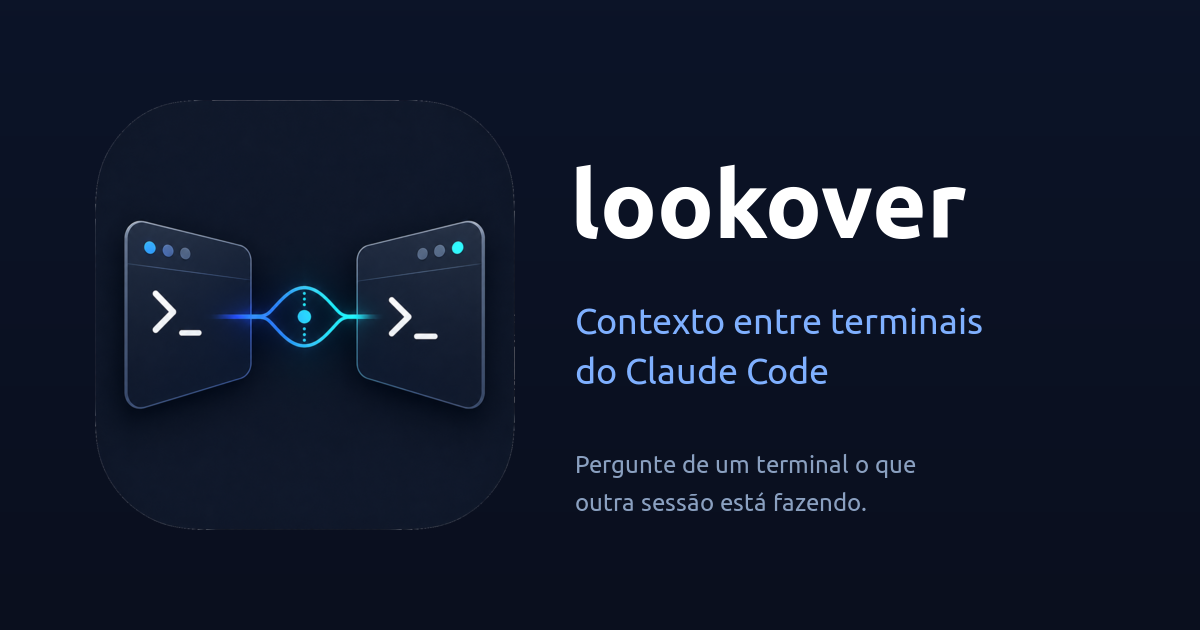
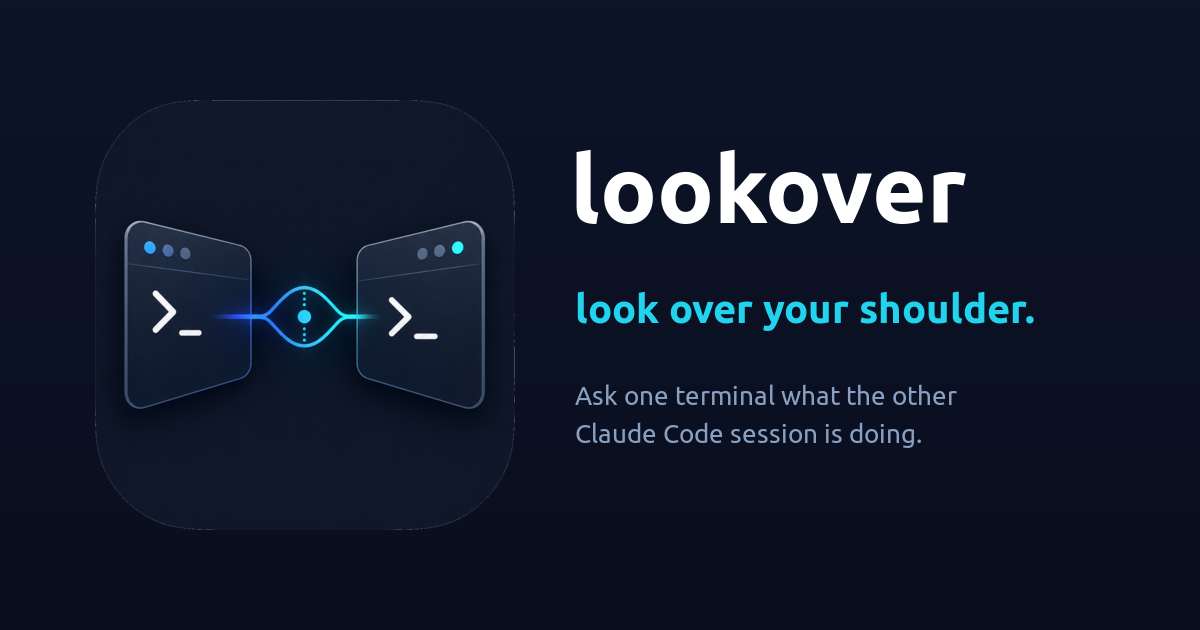
docs: README and landing in English; feature 'look over your shoulder'
🤖 Generated with Claude Code

diff --git a/site/index.html b/site/index.html
@@ -1,10 +1,10 @@
 <!doctype html>
-<html lang="pt-br">
+<html lang="en">
 <head>
 <meta charset="utf-8">
 <meta name="viewport" content="width=device-width, initial-scale=1">
-<title>lookover — contexto entre terminais do Claude Code</title>
-<meta name="description" content="Pergunte de um terminal o que outra sessão do Claude Code está fazendo. O contexto da outra sessão é injetado automaticamente — basta mencioná-la.">
+<title>lookover — context across your Claude Code terminals</title>
+<meta name="description" content="Look over your shoulder into your other Claude Code sessions. Ask one terminal what another is doing — its context is injected automatically. All local, via hooks.">
 
 <!-- favicons -->
 <link rel="icon" href="favicon.ico" sizes="any">
@@ -12,17 +12,17 @@
 <link rel="icon" type="image/png" sizes="16x16" href="favicon-16.png">
 <link rel="apple-touch-icon" href="apple-touch-icon.png">
 
-<!-- Open Graph / redes sociais -->
+<!-- Open Graph / social -->
 <meta property="og:type" content="website">
-<meta property="og:title" content="lookover — contexto entre terminais do Claude Code">
-<meta property="og:description" content="Pergunte de um terminal o que outra sessão do Claude Code está fazendo. O contexto entra automaticamente.">
+<meta property="og:title" content="lookover — context across your Claude Code terminals">
+<meta property="og:description" content="Look over your shoulder into your other Claude Code sessions. Ask one terminal what another is doing.">
 <meta property="og:url" content="https://espigah.github.io/lookover/">
 <meta property="og:image" content="https://espigah.github.io/lookover/og-image.png">
 <meta property="og:image:width" content="1200">
 <meta property="og:image:height" content="630">
 <meta name="twitter:card" content="summary_large_image">
-<meta name="twitter:title" content="lookover — contexto entre terminais do Claude Code">
-<meta name="twitter:description" content="Pergunte de um terminal o que outra sessão do Claude Code está fazendo.">
+<meta name="twitter:title" content="lookover — context across your Claude Code terminals">
+<meta name="twitter:description" content="Look over your shoulder into your other Claude Code sessions.">
 <meta name="twitter:image" content="https://espigah.github.io/lookover/og-image.png">
 
 <style>
@@ -53,7 +53,10 @@
   .hero{padding:46px 0 30px; text-align:center}
   .hero img.mark{width:128px;height:128px;border-radius:28px;
     box-shadow:0 20px 60px rgba(34,113,238,.25); margin-bottom:22px}
-  .hero h1{font-size:clamp(30px,5vw,52px); line-height:1.1; margin:.2em 0 .35em; letter-spacing:-.5px}
+  .eyebrow{display:inline-block; font-size:clamp(15px,2vw,18px); font-weight:700; letter-spacing:.3px;
+    background:var(--grad); -webkit-background-clip:text; background-clip:text; color:transparent;
+    border:1px solid var(--line); border-radius:999px; padding:7px 16px; margin-bottom:20px}
+  .hero h1{font-size:clamp(30px,5vw,52px); line-height:1.1; margin:.1em 0 .35em; letter-spacing:-.5px}
   .hero h1 .g{background:var(--grad); -webkit-background-clip:text; background-clip:text; color:transparent}
   .hero p.lead{font-size:clamp(17px,2.4vw,21px); color:var(--muted); max-width:680px; margin:0 auto 26px}
   .cta{display:flex; gap:12px; justify-content:center; flex-wrap:wrap}
@@ -66,12 +69,10 @@
   .badges{margin-top:18px; display:flex; gap:8px; justify-content:center; flex-wrap:wrap}
   .badges img{height:22px}
 
-  /* sections */
   section{padding:40px 0; border-top:1px solid var(--line)}
   h2{font-size:clamp(22px,3vw,30px); margin:0 0 6px; letter-spacing:-.3px}
   .sub{color:var(--muted); margin:0 0 26px}
 
-  /* chat example */
   .demo{background:var(--panel); border:1px solid var(--line); border-radius:16px; overflow:hidden}
   .demo .bar{display:flex; gap:7px; padding:12px 14px; border-bottom:1px solid var(--line); background:var(--panel2)}
   .demo .bar i{width:11px;height:11px;border-radius:50%;display:inline-block}
@@ -84,7 +85,6 @@
   .pill{display:inline-block;font-size:11px;color:#06101f;background:var(--grad);
     padding:2px 9px;border-radius:999px;font-weight:700;vertical-align:middle}
 
-  /* steps + cards */
   .grid{display:grid; gap:16px}
   .g3{grid-template-columns:repeat(3,1fr)} .g2{grid-template-columns:repeat(2,1fr)}
   .card{background:var(--panel); border:1px solid var(--line); border-radius:14px; padding:18px 18px}
@@ -114,20 +114,21 @@
     <img src="logo.png" alt="lookover">
     <b>lookover</b>
     <span class="sp"></span>
-    <a class="ghost" href="#como">Como funciona</a>
-    <a class="ghost" href="#instalar">Instalar</a>
+    <a class="ghost" href="#how">How it works</a>
+    <a class="ghost" href="#install">Install</a>
     <a class="ghost" href="https://github.com/Espigah/lookover">GitHub</a>
   </nav>
 
   <header class="hero">
     <img class="mark" src="logo.png" alt="lookover">
-    <h1>Pergunte a um terminal<br>o que <span class="g">o outro está fazendo</span>.</h1>
-    <p class="lead">Cada sessão do Claude Code roda isolada. O <b>lookover</b> deixa você
-      referenciar outro terminal, por nome ou por descrição, e injeta o contexto dele
-      automaticamente. Tudo local, via hooks.</p>
+    <div class="eyebrow">look over your shoulder &nbsp;👀</div>
+    <h1>Ask one terminal<br>what <span class="g">the other is doing</span>.</h1>
+    <p class="lead">Every Claude Code session runs blind to the others. <b>lookover</b> lets you
+      reference another terminal, by name or by description, and injects its context automatically.
+      All local, via hooks.</p>
     <div class="cta">
-      <a class="btn primary" href="#instalar">Instalar</a>
-      <a class="btn ghost" href="https://github.com/Espigah/lookover">Ver no GitHub</a>
+      <a class="btn primary" href="#install">Install</a>
+      <a class="btn ghost" href="https://github.com/Espigah/lookover">View on GitHub</a>
     </div>
     <div class="badges">
       <img alt="license" src="https://img.shields.io/badge/license-MIT-3b82f6">
@@ -137,93 +138,93 @@
   </header>
 
   <section>
-    <h2>Na prática</h2>
-    <p class="sub">Você não roda comando nenhum. Só menciona o outro terminal num prompt normal.</p>
+    <h2>In practice</h2>
+    <p class="sub">You don't run any command. You just mention the other terminal in a normal prompt.</p>
     <div class="demo">
       <div class="bar"><i></i><i></i><i></i></div>
       <div class="body">
         <div class="turn">
-          <div class="who">você, no terminal de review</div>
-          <pre class="you">com base no terminal onde trato o oncall, por que o alerta xpto não foi tratado?</pre>
+          <div class="who">you, in your review terminal</div>
+          <pre class="you">based on the terminal where I handle on-call, why wasn't the xpto alert handled?</pre>
         </div>
         <div class="turn">
-          <div class="who">lookover <span class="pill">injeta automático</span></div>
-          <pre>&lt;&lt;&lt;LOOKOVER: contexto de outra sessão&gt;&gt;&gt;
+          <div class="who">lookover <span class="pill">auto-injected</span></div>
+          <pre>&lt;&lt;&lt;LOOKOVER: context from another session&gt;&gt;&gt;
 ## terminal oncall-terminal
-skill atual: oncall-patrolman
-- pediu: investiga o alerta xpto de chargeback
-- fato: alerta veio sem group_id
-&lt;&lt;&lt;FIM&gt;&gt;&gt;</pre>
+current skill: oncall-patrolman
+- asked: investigate the xpto chargeback alert
+- fact: alert arrived with no group_id
+&lt;&lt;&lt;END&gt;&gt;&gt;</pre>
         </div>
         <div class="turn">
           <div class="who">claude</div>
-          <pre>No terminal do oncall o alerta xpto parou porque chegou sem group_id…</pre>
+          <pre>In the on-call terminal the xpto alert stalled because it came in without a group_id…</pre>
         </div>
       </div>
     </div>
   </section>
 
-  <section id="como">
-    <h2>Como funciona</h2>
-    <p class="sub">Três peças, todas locais. Nenhum daemon, nenhum servidor.</p>
+  <section id="how">
+    <h2>How it works</h2>
+    <p class="sub">Three pieces, all local. No daemon, no server.</p>
     <div class="grid g3">
-      <div class="card"><span class="n">1</span><h3>Captura</h3>
-        <p>Um hook leve (100% Go, zero token) grava um resumo enxuto de cada sessão: tópicos, skill em uso, fatos. Sem guardar conteúdo verbatim.</p></div>
+      <div class="card"><span class="n">1</span><h3>Capture</h3>
+        <p>A lightweight hook (100% Go, zero tokens) records a tight digest of each session: topics, the skill in use, facts. Never stores verbatim content.</p></div>
       <div class="card"><span class="n">2</span><h3>Resolve</h3>
-        <p>Ao mencionar outro terminal, varre as sessões vivas e ranqueia por nome, tópicos, repo e skill. Acha a certa, ou pede pra desambiguar.</p></div>
-      <div class="card"><span class="n">3</span><h3>Injeta</h3>
-        <p>O contexto da sessão alvo entra no seu prompt como dado (envelope anti-injection). O Claude responde já sabendo o que a outra fez.</p></div>
+        <p>When you mention another terminal, it scans the live sessions and ranks by name, topics, repo and skill. Finds the right one, or asks you to disambiguate.</p></div>
+      <div class="card"><span class="n">3</span><h3>Inject</h3>
+        <p>The target session's context enters your prompt as data (anti-injection envelope). Claude answers already knowing what the other one did.</p></div>
     </div>
   </section>
 
   <section>
-    <h2>Dois níveis de contexto</h2>
-    <p class="sub">Barato por padrão, profundo quando você precisa.</p>
+    <h2>Two levels of context</h2>
+    <p class="sub">Cheap by default, deep when you need it.</p>
     <div class="grid g2">
-      <div class="card"><h3>Resumo</h3>
-        <p>Tópicos e o que foi pedido, pra identificação rápida. É o que entra na maioria das vezes, custo mínimo de token.</p></div>
-      <div class="card"><h3>Conteúdo completo</h3>
-        <p>Peça “o texto completo”, “na íntegra”, “o que foi escrito” e o lookover lê o transcript real da outra sessão e injeta o conteúdo verbatim.</p></div>
+      <div class="card"><h3>Summary</h3>
+        <p>Topics and what was asked, for fast identification. This is what gets injected most of the time, at minimal token cost.</p></div>
+      <div class="card"><h3>Full content</h3>
+        <p>Ask for "the full text", "verbatim", "what was written" and lookover reads the target session's real transcript and injects the content word-for-word.</p></div>
     </div>
   </section>
 
-  <section id="instalar">
-    <h2>Instalar</h2>
-    <p class="sub">Requer Go 1.21+ e o Claude Code. O <code>init</code> mostra o diff do settings.json e só aplica após você confirmar.</p>
-    <pre class="cmd"><span class="muted"># clona e compila</span>
+  <section id="install">
+    <h2>Install</h2>
+    <p class="sub">Requires Go 1.21+ and Claude Code. <code>init</code> shows the settings.json diff and only applies after you confirm.</p>
+    <pre class="cmd"><span class="muted"># clone and build</span>
 git clone https://github.com/Espigah/lookover.git
 cd lookover
 go build -o ~/.local/bin/lookover ./cmd/lookover
 
-<span class="muted"># registra os hooks (interativo, com dry-run + backup)</span>
+<span class="muted"># register the hooks (interactive, with dry-run + backup)</span>
 lookover init</pre>
-    <p class="note">Reverter a qualquer momento com <code>lookover uninstall</code>. Kill switch instantâneo:
+    <p class="note">Roll back anytime with <code>lookover uninstall</code>. Instant kill switch:
       <code>touch ~/.claude/lookover/disabled</code>.</p>
   </section>
 
   <section>
-    <h2>Comandos</h2>
-    <p class="sub">Além da referência automática nos prompts, há uma CLI pra inspecionar.</p>
-    <pre class="cmd">lookover list                   <span class="muted"># sessões vivas + tópicos/skill</span>
-lookover show &lt;nome|id&gt;          <span class="muted"># o digest de uma sessão</span>
-lookover doctor                 <span class="muted"># saúde: sessões, digests, versão</span>
-lookover status                 <span class="muted"># adoção: vivas x cobertas</span></pre>
+    <h2>Commands</h2>
+    <p class="sub">Beyond the automatic in-prompt reference, there's a CLI to inspect.</p>
+    <pre class="cmd">lookover list                   <span class="muted"># live sessions + topics/skill</span>
+lookover show &lt;name|id&gt;          <span class="muted"># a session's digest</span>
+lookover doctor                 <span class="muted"># health: sessions, digests, version</span>
+lookover status                 <span class="muted"># adoption: live vs covered</span></pre>
   </section>
 
   <section>
-    <h2>Pensado pra não atrapalhar</h2>
-    <p class="sub">Roda em todo prompt; foi desenhado pra ser invisível quando não é preciso.</p>
+    <h2>Built to stay out of your way</h2>
+    <p class="sub">It runs on every prompt, and it's designed to be invisible when it isn't needed.</p>
     <ul class="clean">
-      <li><b>Custo zero no uso normal:</b> sem referência a outro terminal, não injeta nada.</li>
-      <li><b>Nunca quebra o Claude:</b> recover de panic, watchdog anti-hang, sempre sai limpo.</li>
-      <li><b>Anti prompt-injection:</b> nunca guarda output verbatim no resumo; tudo envelopado e sanitizado.</li>
-      <li><b>Sem servidor:</b> um arquivo por sessão, escrita atômica, resolução por varredura local.</li>
-      <li><b>Local de verdade:</b> nada sai pra rede além da compactação opcional por LLM (off por padrão).</li>
+      <li><b>Zero cost in normal use:</b> with no reference to another terminal, it injects nothing.</li>
+      <li><b>Never breaks Claude:</b> panic recovery, anti-hang watchdog, always exits cleanly.</li>
+      <li><b>Anti prompt-injection:</b> the summary never stores verbatim output; everything is enveloped and sanitized.</li>
+      <li><b>No server:</b> one file per session, atomic writes, resolution via a local scan.</li>
+      <li><b>Truly local:</b> nothing leaves your machine except the optional LLM compaction (off by default).</li>
     </ul>
   </section>
 
   <footer>
-    <p>Livre e open source sob a licença <b>MIT</b>.</p>
+    <p>Free and open source under the <b>MIT</b> license.</p>
     <p><a href="https://github.com/Espigah/lookover">github.com/Espigah/lookover</a></p>
   </footer>
 

diff --git a/README.md b/README.md
@@ -4,9 +4,11 @@
 
 <h1 align="center">lookover</h1>
 
+<p align="center"><b><i>look over your shoulder</i></b> — into your other Claude Code terminals.</p>
+
 <p align="center">
-  Pergunte de um terminal o que <b>outra sessão do Claude Code</b> está fazendo.<br>
-  O contexto da outra sessão é injetado automaticamente, basta mencioná-la.
+  Ask one terminal what <b>another Claude Code session</b> is doing.<br>
+  Its context is injected automatically, just mention it.
 </p>
 
 <p align="center">
@@ -18,88 +20,90 @@
 
 ---
 
-Cada sessão do Claude Code roda isolada: o Claude do terminal A não enxerga o terminal B. O
-**lookover** fecha esse buraco. Você referencia outro terminal, por nome ou por descrição, e o
-contexto dele entra no seu prompt antes do Claude responder.
+Every Claude Code session runs blind to the others: the Claude in terminal A can't see terminal B.
+**lookover** closes that gap. You reference another terminal, by name or by description, and its
+context enters your prompt before Claude answers, like glancing over your own shoulder at the
+session next to you.
 
 ```
-você:  com base no terminal slack-bridge-on-2, qual o último PR analisado?
-você:  no terminal onde trato o oncall, por que o alerta xpto não foi tratado?
+you:  based on the slack-bridge-on-2 terminal, what was the last PR we reviewed?
+you:  in the terminal where I handle on-call, why wasn't the xpto alert handled?
 ```
 
-## Como funciona
+## How it works
 
-- **Captura (100% Go, zero token):** um hook leve grava um resumo enxuto de cada sessão
-  (tópicos extraídos do prompt, skill em uso, fatos) em `~/.claude/lookover/<sessionId>.*.json`.
-  Nunca guarda conteúdo verbatim.
-- **Resolve:** ao detectar que você mencionou outro terminal, varre `~/.claude/sessions/` (nativo)
-  + os metas e ranqueia por score lexical (nome > tópicos > repo > fato > skill). Acha a sessão
-  certa, devolve uma shortlist se houver empate, ou diz quais estão abertas.
-- **Injeta:** o contexto entra como `additionalContext`, dentro de um envelope anti-injection
-  (marcado como dado, não instrução) e sanitizado.
+- **Capture (100% Go, zero tokens):** a lightweight hook records a tight digest of each session
+  (topics extracted from the prompt, the skill in use, facts) in
+  `~/.claude/lookover/<sessionId>.*.json`. Never stores verbatim content.
+- **Resolve:** when it detects you mentioned another terminal, it scans `~/.claude/sessions/`
+  (native) plus the metas and ranks by lexical score (name > topics > repo > fact > skill). Finds
+  the right session, returns a shortlist on a tie, or tells you which ones are open.
+- **Inject:** the context enters as `additionalContext`, inside an anti-injection envelope
+  (marked as data, not instructions) and sanitized.
 
-## Dois níveis de contexto
+## Two levels of context
 
-| Você escreve | O que entra |
+| You write | What gets injected |
 |---|---|
-| *"o que o terminal X fez?"* | **resumo**: tópicos + pedidos (barato, identificação) |
-| *"me mostra o **texto completo** do terminal X"* | **conteúdo verbatim** lido do transcript real da sessão |
+| *"what did terminal X do?"* | **summary**: topics + asks (cheap, for identification) |
+| *"show me the **full text** from terminal X"* | **verbatim content** read from the session's real transcript |
 
-O modo profundo é disparado por cues como *"texto completo", "na íntegra", "conteúdo",
-"o que foi escrito", "verbatim", "o parágrafo", "mostra tudo"*.
+Deep mode is triggered by cues like *"full text", "verbatim", "what was written", "the whole thing",
+"in full"*.
 
-## Instalar
+## Install
 
-Requer Go 1.21+ e o Claude Code.
+Requires Go 1.21+ and Claude Code.
 
 ```sh
 git clone https://github.com/Espigah/lookover.git
 cd lookover
 go build -o ~/.local/bin/lookover ./cmd/lookover
-lookover init        # mostra o diff do settings.json e só aplica após confirmar
+lookover init        # shows the settings.json diff and only applies after you confirm
 ```
 
-O `init` registra 4 hooks (SessionStart, UserPromptSubmit, PostToolUse, Stop), **preserva** hooks
-existentes, faz backup (`settings.json.bak`), registra as sessões já abertas (backfill) e oferece
-instalar um primer no `CLAUDE.md`. Reverter: `lookover uninstall`.
+`init` registers 4 hooks (SessionStart, UserPromptSubmit, PostToolUse, Stop), **preserves** existing
+hooks, makes a backup (`settings.json.bak`), registers already-open sessions (backfill) and offers
+to install a primer in `CLAUDE.md`. Roll back: `lookover uninstall`.
 
-Flags: `--llm` (liga a compactação opcional por LLM), `--shadow` (captura sem injetar),
-`--yes` (sem prompt), `-g` (global).
+Flags: `--llm` (enable the optional LLM compaction), `--shadow` (capture without injecting),
+`--yes` (no prompt), `-g` (global).
 
-## Comandos
+## Commands
 
-| comando | o quê |
+| command | what |
 |---|---|
-| `lookover list` | sessões vivas + skill/tópicos |
-| `lookover show <nome\|id>` | digest de uma sessão |
-| `lookover doctor` | diagnóstico de saúde |
-| `lookover status` | uso/adoção local |
-| `lookover uninstall` | remove os hooks |
+| `lookover list` | live sessions + skill/topics |
+| `lookover show <name\|id>` | a session's digest |
+| `lookover doctor` | health diagnostics |
+| `lookover status` | local usage/adoption |
+| `lookover uninstall` | remove the hooks |
 
-## Robustez e segurança
+## Robustness & security
 
-- **Custo zero no uso normal:** sem referência a outro terminal, o hook não injeta nada.
-- **Nunca quebra o Claude:** recover de panic, watchdog anti-hang, sempre exit 0.
-- **Anti prompt-injection:** o resumo nunca guarda output verbatim, só fatos derivados; injeção
-  sempre envelopada e sanitizada.
-- **Kill switch:** `touch ~/.claude/lookover/disabled` (ou `LOOKOVER_DISABLED=1`) desliga na hora.
-- **Sem servidor:** um arquivo por sessão, escrita atômica, resolução por varredura local.
+- **Zero cost in normal use:** with no reference to another terminal, the hook injects nothing.
+- **Never breaks Claude:** panic recovery, anti-hang watchdog, always exits 0.
+- **Anti prompt-injection:** the summary never stores verbatim output, only derived facts; injection
+  is always enveloped and sanitized.
+- **Kill switch:** `touch ~/.claude/lookover/disabled` (or `LOOKOVER_DISABLED=1`) turns it off instantly.
+- **No server:** one file per session, atomic writes, resolution via a local scan.
 
-## Desenvolvimento
+## Development
 
 ```sh
 go build ./...
 go test ./...
 ```
 
-Pacotes em `internal/`: `paths`, `config`, `sessions`, `store`, `hookio`, `capture`, `resolve`,
+Packages under `internal/`: `paths`, `config`, `sessions`, `store`, `hookio`, `capture`, `resolve`,
 `render`, `digest`, `transcript`, `settings`.
 
-## Privacidade
+## Privacy
 
-Tudo é local, em `~/.claude/lookover/`. Nada sai pra rede, com a única exceção da compactação
-opcional por LLM (off por padrão), que usa o `claude` que você já tem instalado.
+Everything is local, in `~/.claude/lookover/`. Nothing leaves your machine, with the single
+exception of the optional LLM compaction (off by default), which uses the `claude` binary you
+already have installed.
 
-## Licença
+## License
 
 MIT.
